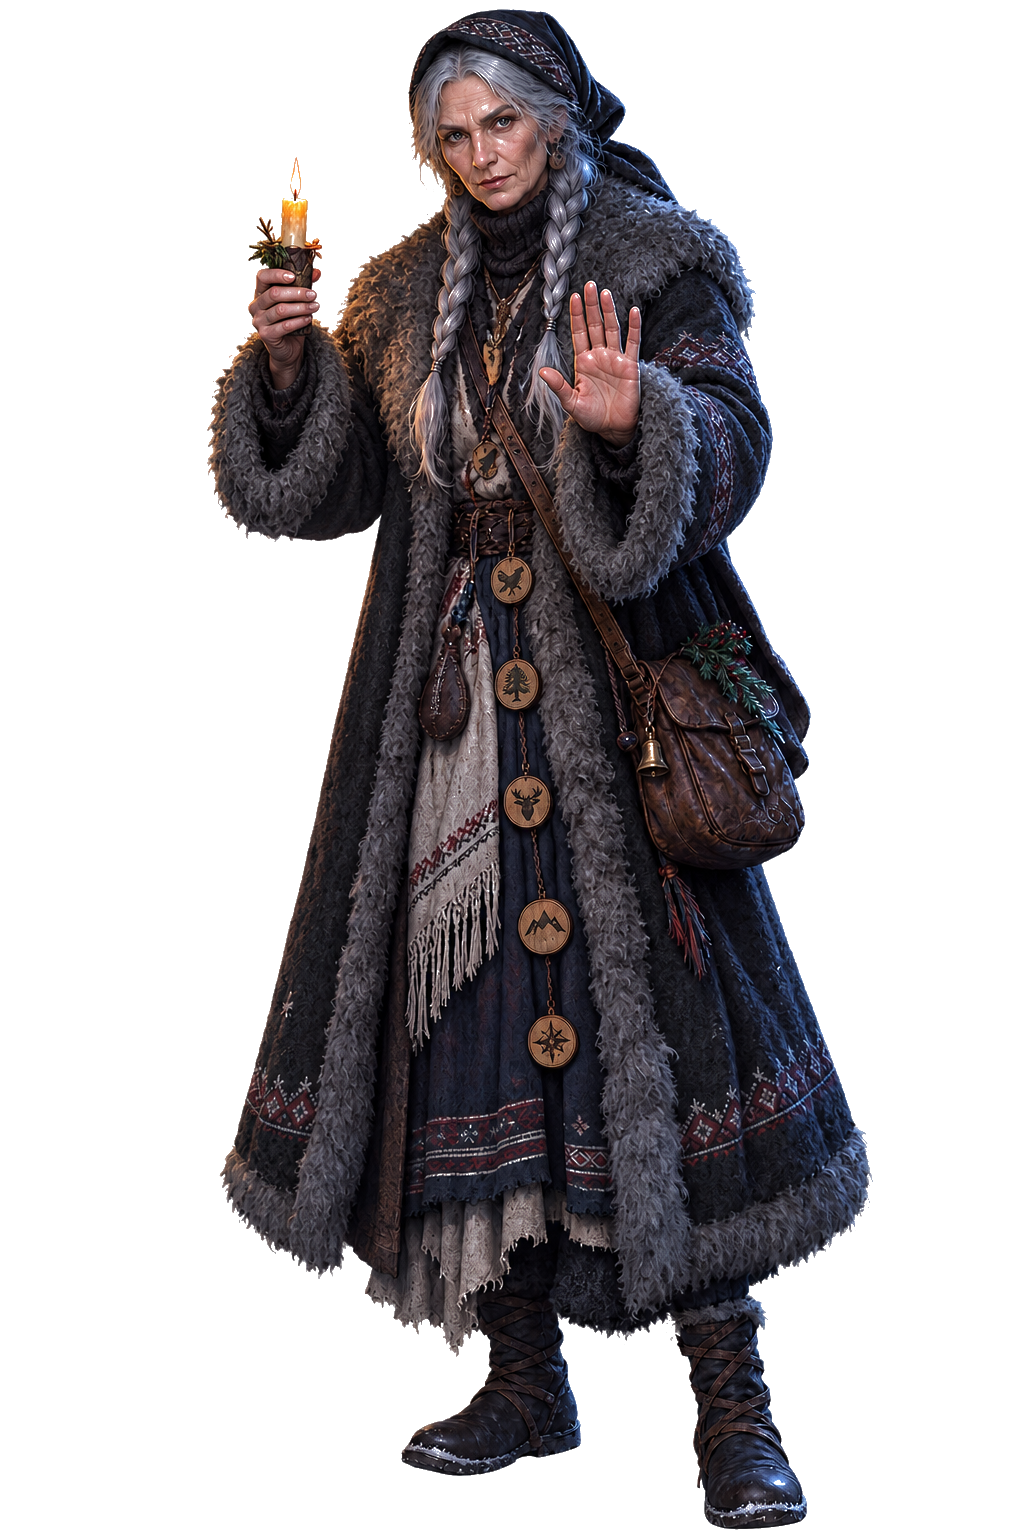
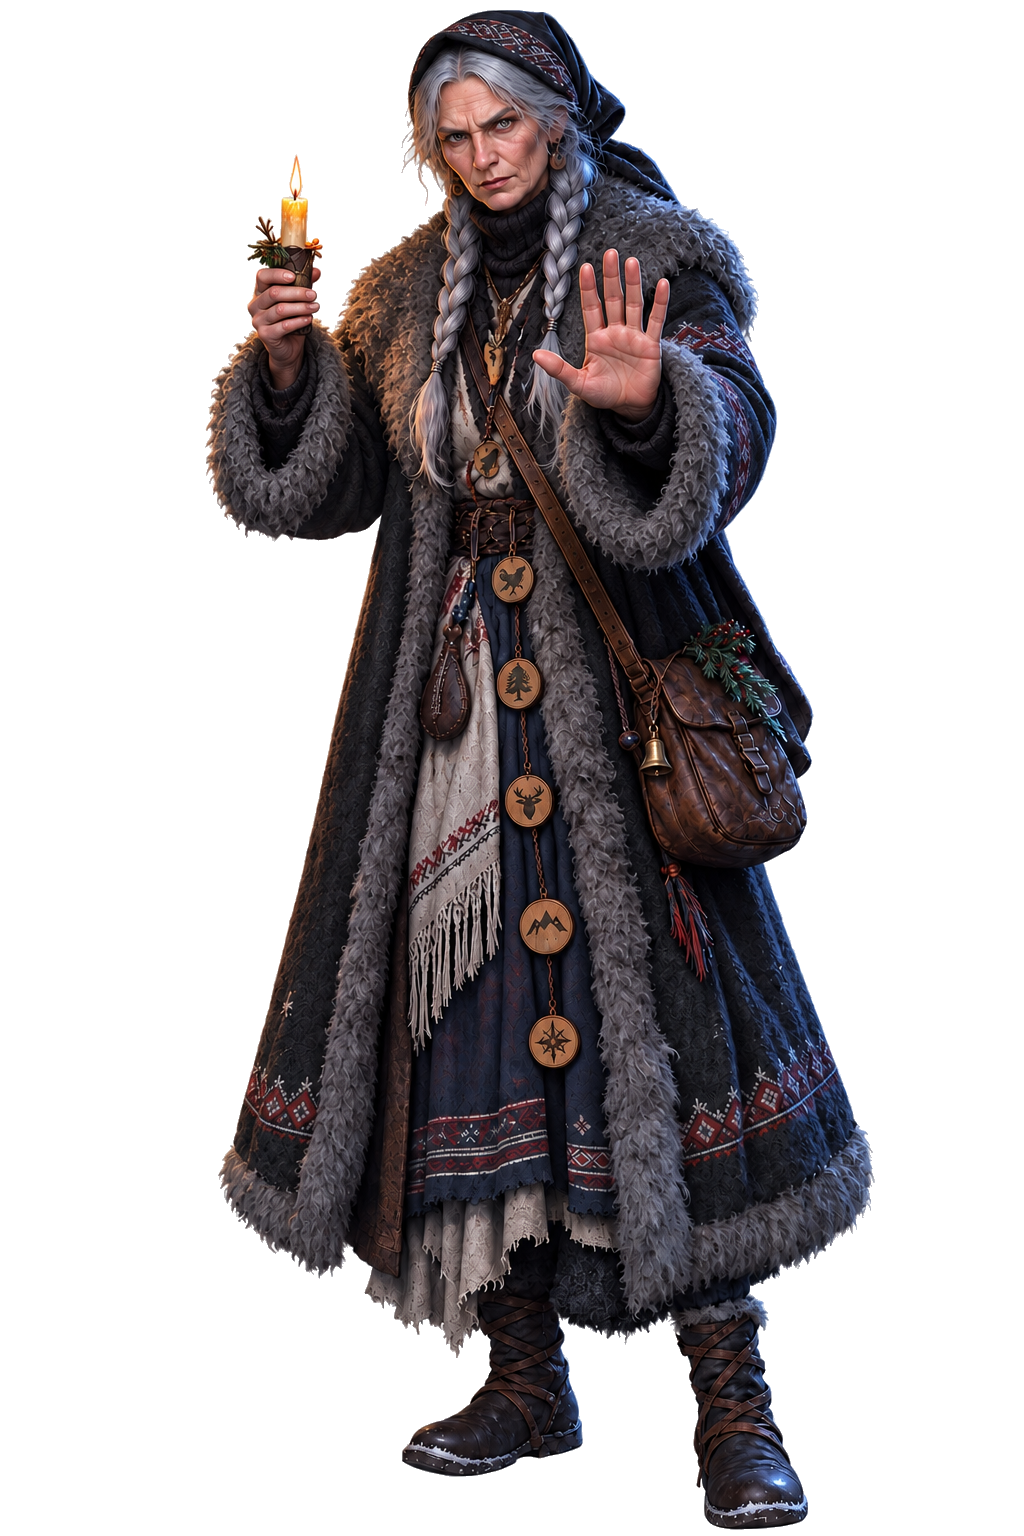
Complete character originality evidence

diff --git a/Projects/novels-volchya-poshlina/Art/CHARACTER_ORIGINALITY_REVIEWS.md b/Projects/novels-volchya-poshlina/Art/CHARACTER_ORIGINALITY_REVIEWS.md
@@ -1,0 +1,153 @@
+# Character originality reviews — 2026-09-11
+
+These are eight separate visual-originality results for the current character
+packages. They apply the project originality protocol to each complete package,
+not merely to the cast as a group. This is a risk review, not a legal opinion.
+
+Common provenance: project-specific OpenAI image generation without supplied
+third-party images, named-artist imitation or franchise references. Search was
+descriptive/image-index based; no dedicated reverse-image hash index was
+available. Generic winter clothing, folk embroidery, satchels, wolves and
+full-body game-character framing were not treated as distinctive by themselves.
+
+## Ярина / `travel` — iteration 1
+
+- Current files: `main`, `alarmed`, `frostworn`; master SHA-256
[1 lines of base64/hex data omitted]
+- Compared combination: long dark braid, charcoal quilted toggle coat, narrow
+  amber patterned scarf, diagonal courier satchel and practical snow boots.
+- Sources inspected: Zatscha's *Selene Severin* on ART street and the official
+  Reverse: 1999 Villa portrait indexed by Wikiru. Both share isolated winter
+  women and braids; their purple/tailored costumes, props, silhouettes and
+  rendering differ from Yarina's courier configuration.
+- Finding: no substantial match in the recognizable combination. Result:
+  `passed`; final risk `low`, confidence `medium`.
+
+## Макар / `travel` — iteration 1
+
+- Current files: `main`, `confession`; master SHA-256
[1 lines of base64/hex data omitted]
+- Compared combination: older broad-set courier, black ushanka, short gray
+  beard, long brown shearling coat with rust folk trim, rope belt and mittens.
+- Source inspected: Krassimir Mercier's *Frostbound Nomad* concept indexed via
+  Pinterest. Its white-bearded post-apocalyptic pack carrier, helmet, spear and
+  armor language differ from Makar's unarmed traditional courier silhouette.
+- Finding: only generic cold-weather elder/fur overlap. Result: `passed`;
+  final risk `low`, confidence `medium`.
+
+## Анфиса / `travel` — iteration 1
+
+- Current files: `main`, `ashamed`, `resolute`; master SHA-256
[1 lines of base64/hex data omitted]
+- Compared combination: twin braids, dark-green embroidered winter coat,
+  burgundy woven sash, herb pouches, flower-filled satchel and felt boots.
+- Sources inspected: Uchuu & Riku Hydrangea's BOOTH herbalist girl and Flocke
+  Cerha from *Atelier Resleriana*. Both use herb/peddler conventions, but their
+  pale fantasy costumes, hats/hair, books/jars and silhouettes do not match the
+  green folk coat, twin braids and clustered field-kit arrangement.
+- Finding: no substantial match. Result: `passed`; final risk `low`, confidence
+  `medium`.
+
+## Савва / `travel` — iteration 1
+
+- Current files: `main`, `confession`; master SHA-256
[1 lines of base64/hex data omitted]
+- Compared combination: lean blond trapper, asymmetric patched charcoal hood,
+  layered ragged tunic, crossed straps, paired rope coils and wrapped boots.
+- Sources inspected: Sui Yangyang's rugged fantasy villager concept indexed via
+  Pinterest and D. S. Brown's *The Withering Winter*. The former lacks Savva's
+  rope/tool layout and patched hood; the latter uses a gas mask, bone weapons
+  and post-apocalyptic monster materials.
+- Finding: generic survival wear only. Result: `passed`; final risk `low`,
+  confidence `medium`.
+
+## Седой / `natural` — iteration 1
+
+- Current files: `main`, `speaking`; master SHA-256
[1 lines of base64/hex data omitted]
+- Compared combination: natural white wolf anatomy, pale eyes and exactly one
+  charcoal foreleg without armor, cloth or magical glow.
+- Sources inspected: Blanca from *Shadow Hearts*, Shiro from *Suikoden* and the
+  Torgal costume from *Final Fantasy XVI*. They show a white wolf with facial
+  shadow, a blue cloth-wrapped leg, or a metal/glowing foreleg respectively;
+  none matches the plain anatomical charcoal limb and otherwise unadorned wolf.
+- Finding: no substantial match. Result: `passed`; final risk `low`, confidence
+  `medium`.
+
+## Митя / `village` — iteration 1
+
+- Current file: `main`; SHA-256
[1 lines of base64/hex data omitted]
+- Compared combination: freckled brown-haired village boy, loose indigo folk
+  tunic with ochre embroidery, long gray woven scarf, rope belt, small side
+  pouch, patched trousers and wrapped felt boots.
+- Sources inspected: Nata from *Monster Hunter Wilds*, Sokka from *Avatar* and
+  the original Astra Marin character indexed by Jabali. Nata is the closest at
+  trope level (youth, blue/teal garment, pale scarf and satchel), but adds a
+  denim vest, jewelry and franchise-specific expedition styling; Sokka has
+  Water Tribe armor/hair, while Astra has a green scarf and port-adventurer
+  accessories. Neither reproduces Mitya's folk-tunic cut, patched lower half,
+  rope construction or overall silhouette.
+- Finding: the palette/outfit category is common, while the full combination is
+  materially different. Result: `passed`; final risk `low`, confidence `medium`.
+
+## Вея / `winter` — iteration 1
+
+- Current files: `main`, `warning`; master SHA-256
[1 lines of base64/hex data omitted]
+- Compared combination: elderly gray-braided woman, black patterned headscarf,
+  huge charcoal fur-trimmed coat, candle wrapped with evergreen, five wooden
+  token medallions and herb-filled satchel.
+- Sources inspected: the Reverse: 1999 Windsong portrait and generic indexed
+  winter-guardian/folk-elder imagery. Shared silver hair, brown outerwear or
+  winter mystic cues do not reproduce Veya's age, candle, vertical token chain,
+  black folk coat and warning-hand composition.
+- Finding: no substantial match. Result: `passed`; final risk `low`, confidence
+  `medium`.
+
+The `warning` variant was repaired in the same iteration because the prior file
+duplicated `main`. Built-in identity-preserving image editing changed the face
+and stop gesture; deterministic alpha transfer from the approved master removed
+the generator's baked preview background. Final variant SHA-256:
[1 lines of base64/hex data omitted]
+The inspected complete package after that repair remains `passed` at low risk.
+
+## Лука / `bell` — iteration 1
+
+- Current files: `main`, `alarmed`; master SHA-256
[1 lines of base64/hex data omitted]
+- Compared combination: pale freckled teenage bell-ringer, oversized patched
+  brown shearling coat, layered gray scarf, small plain neck bell and both hands
+  held close at the lapels.
+- Sources inspected: generic winter-youth results including Nata from *Monster
+  Hunter Wilds* and Windsong from Reverse: 1999. Their fitted expedition/fantasy
+  outfits, ages, props and silhouettes differ from Luka's oversized coat and
+  clapperless-bell identity.
+- Finding: no substantial match. Result: `passed`; final risk `low`, confidence
+  `medium`.
+
+The `alarmed` variant was repaired in the same iteration because the prior file
+duplicated `main`. Built-in identity-preserving image editing introduced a
+clearly startled expression and tighter grip; deterministic alpha transfer from
+the approved master removed the baked preview background. Final variant SHA-256:
[1 lines of base64/hex data omitted]
+The inspected complete package after that repair remains `passed` at low risk.
+
+## Sources and limitations
+
+- https://medibang.com/picture/7d2211102000117600019229178/
+- https://reverse1999.wikiru.jp/?%E3%83%B4%E3%82%A3%E3%83%A9
+- https://www.pinterest.com/pin/artstation-character-concepts-part-2-krassimir-mercier--373235887868331516/
+- https://booth.pm/ja/items/4586719
+- https://www.rpgsite.net/news/15138-atelier-resleriana-forgotten-alchemy-polar-night-liberator-receives-western-release-in-2024
+- https://www.artzone.ai/images/0adc40de-a10b-4c06-8815-3abe365de892
+- https://www.pinterest.com/pin/592645632194736944/
+- https://www.creativeuncut.com/gallery-40/ff16-version-1-10-torgal-costume.html
+- https://gensopedia.org/w/Shiro
+- https://deltiasgaming.com/monster-hunter-wilds-nata-character-guide/
+- https://pngaura.com/free-png-image-5096
+- https://www.prydwen.gg/re1999/characters/nautika
+
+Open indexing cannot cover unpublished/unindexed art or every regional mirror.
+The results establish no observed substantial similarity in the inspected
+material, not absolute uniqueness.

diff --git a/Projects/novels-volchya-poshlina/Art/ORIGINALITY_EVIDENCE.md b/Projects/novels-volchya-poshlina/Art/ORIGINALITY_EVIDENCE.md
@@ -111,22 +111,23 @@ general Slavic-folklore motifs.
 
 ## Per-character result index
 
-This index records coverage claimed by the historical grouped reviews above.
-It does not establish eight independently performed reviews or supply missing
-per-character comparison sources/contact sheets. No fresh visual review was
-performed during the narrative repair; the images themselves are unchanged.
-Acceptance must inspect the original production evidence for those requirements.
+The historical grouped reviews above remain provenance. Eight fresh, separate
+package reviews were completed on 2026-09-11 and are recorded with per-package
+scope, hashes, sources, findings and results in
+[CHARACTER_ORIGINALITY_REVIEWS.md](CHARACTER_ORIGINALITY_REVIEWS.md). The Veya
+`warning` and Luka `alarmed` variants were repaired before their final package
+results because the previous files duplicated their neutral masters.
 
-| Character package | Reported coverage | Historical group result | Reported risk / confidence |
+| Character package | Current separate result | Final risk / confidence |
 |---|---|---|---|
-| Ярина / `travel` | Character and production art — iteration 1 | `passed` | low / medium |
-| Макар / `travel` | Character and production art — iteration 1 | `passed` | low / medium |
-| Анфиса / `travel` | Character and production art — iteration 1 | `passed` | low / medium |
-| Савва / `travel` | Character and production art — iteration 1 | `passed` | low / medium |
-| Седой / `natural` | Character and production art — iteration 1 | `passed` | low / medium |
-| Митя / `village` | Character and production art — iteration 1 | `passed` | low / medium |
-| Вея / `winter` | Expansion review — iteration 3 | `passed` | low / medium |
-| Лука / `bell` | Expansion review — iteration 3 | `passed` | low / medium |
+| Ярина / `travel` | `passed` | low / medium |
+| Макар / `travel` | `passed` | low / medium |
+| Анфиса / `travel` | `passed` | low / medium |
+| Савва / `travel` | `passed` | low / medium |
+| Седой / `natural` | `passed` | low / medium |
+| Митя / `village` | `passed` | low / medium |
+| Вея / `winter` | `passed` | low / medium |
+| Лука / `bell` | `passed` | low / medium |
 
 ## Full candidate continuity repair — iteration 5 (2026-09-07)
 

diff --git a/Projects/novels-volchya-poshlina/archive/reviews/2026-09-11_character-originality_v001.md b/Projects/novels-volchya-poshlina/archive/reviews/2026-09-11_character-originality_v001.md
@@ -1,0 +1,25 @@
+# Character originality handoff, 2026-09-11
+
+The eight current character packages received separate iteration-1 reviews in
+`Art/CHARACTER_ORIGINALITY_REVIEWS.md`. Each review records its own complete
+scope, current master/package hashes, descriptive/image-search comparisons,
+findings, limitations and final result.
+
+All eight results are `passed`, final risk `low`, confidence `medium`.
+
+Two production defects were repaired before the final package results:
+
+- `вея/.../warning.png` had duplicated `main.png`; it now has a distinct warning
+  expression and stop gesture, SHA-256
[1 lines of base64/hex data omitted]
+- `лука/.../alarmed.png` had duplicated `main.png`; it now has a distinct
+  startled expression and tightened grip, SHA-256
[1 lines of base64/hex data omitted]
+
+Both were identity-preserving built-in image edits followed by deterministic
+alpha transfer from the respective approved master because the generated
+preview background was not transparent. The final PNGs are 1024×1536 and have
+real alpha channels; their existing Unity `.meta` files were preserved.
+
+Unity/import/runtime and in-game visual evidence remain part of the authorized
+final validation slot and are not claimed here.
